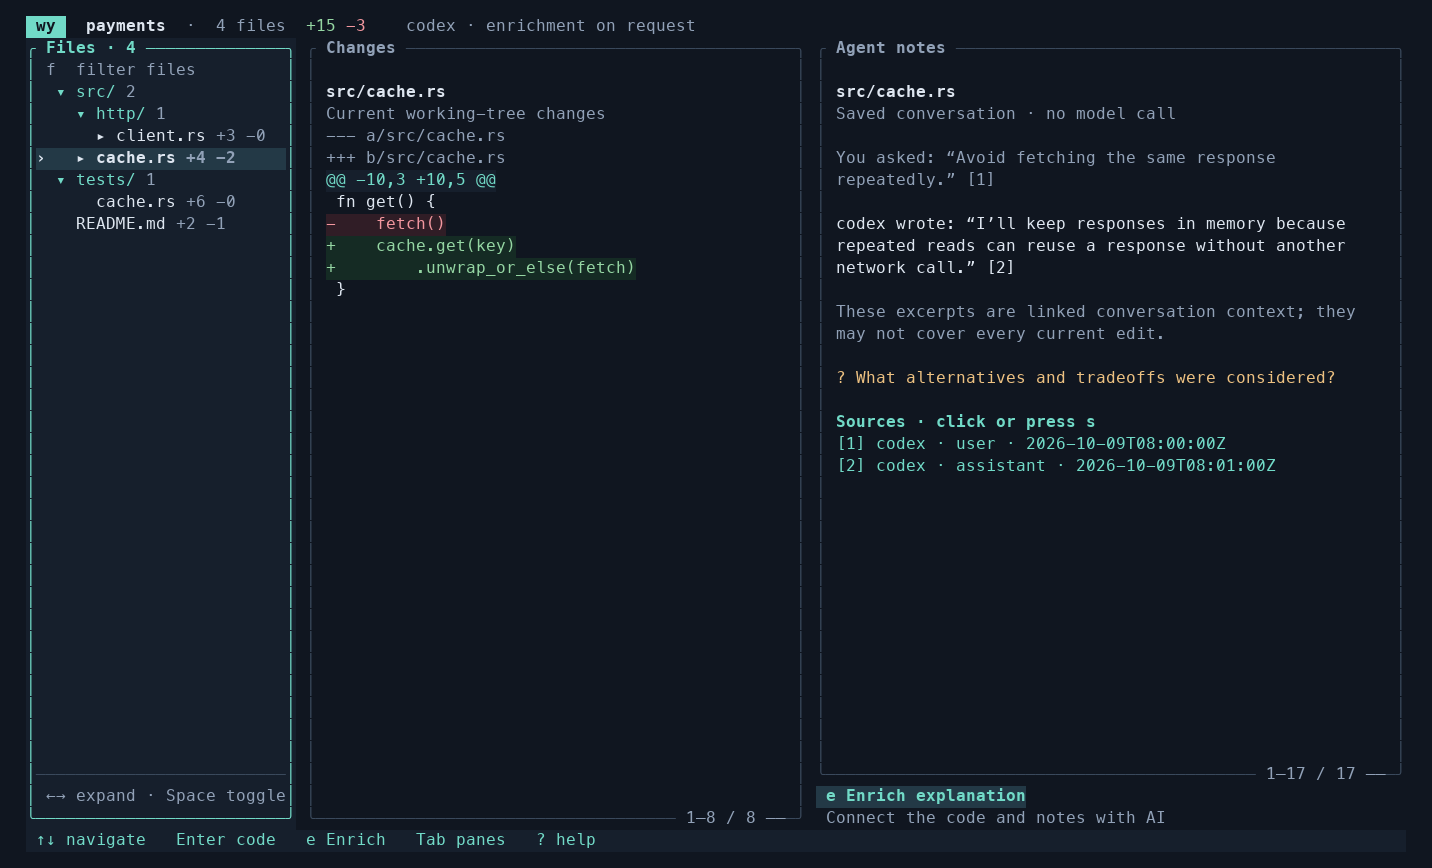
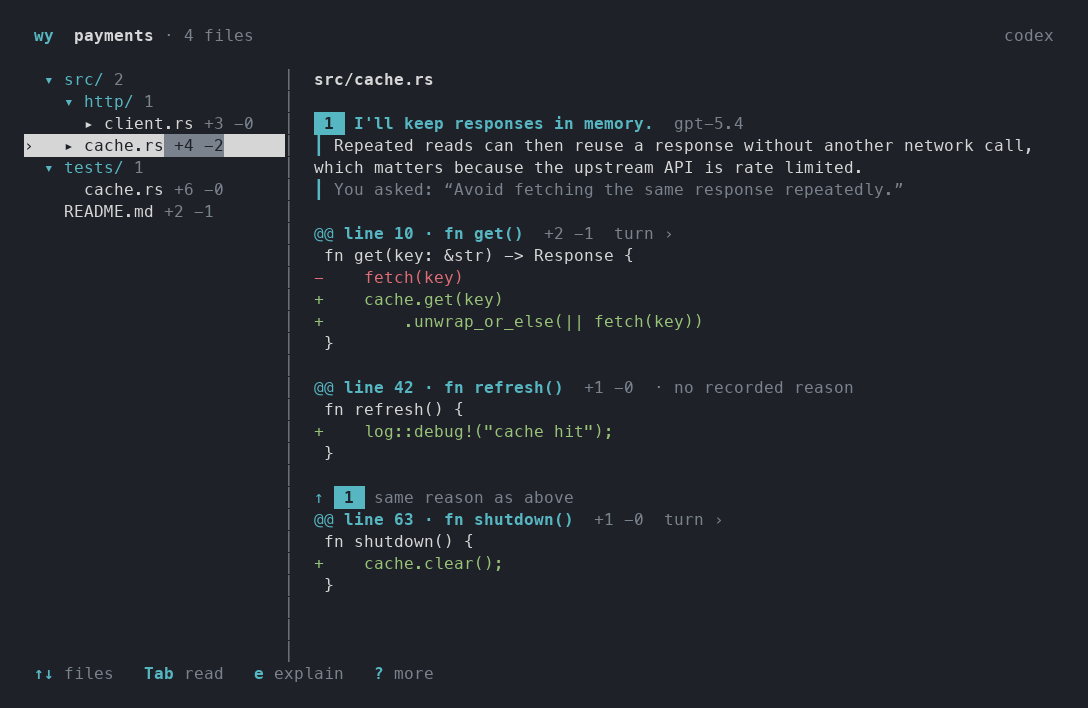
updated

diff --git a/docs/assets/render-preview.py b/docs/assets/render-preview.py
@@ -1,0 +1,55 @@
+#!/usr/bin/env python3
+"""Render a wy terminal preview (WY_TUI_PREVIEW_DIR JSON) to a PNG.
+
+wy uses the terminal's own colours, so this maps the named colours to one
+common dark palette. Usage: render-preview.py preview.json out.png
+"""
+import json
+import sys
+
+from PIL import Image, ImageDraw, ImageFont
+
+PALETTE = {
+    None: (214, 214, 214),  # default text
+    "Cyan": (86, 182, 194),
+    "Green": (152, 195, 121),
+    "Red": (224, 108, 117),
+    "Yellow": (229, 192, 123),
+    "DarkGray": (122, 130, 142),
+}
+BACKGROUND = (30, 33, 39)
+CELL_W, CELL_H, PAD = 10, 22, 24
+
+
+def colour(value):
+    if isinstance(value, list):
+        return tuple(value)
+    return PALETTE.get(value, PALETTE[None])
+
+
+def main(source, target):
+    data = json.load(open(source))
+    width, height, cells = data["width"], data["height"], data["cells"]
+    try:
+        regular = ImageFont.truetype("/System/Library/Fonts/Menlo.ttc", 16, index=0)
+        bold = ImageFont.truetype("/System/Library/Fonts/Menlo.ttc", 16, index=1)
+    except OSError:
+        regular = bold = ImageFont.load_default()
+    image = Image.new("RGB", (width * CELL_W + 2 * PAD, height * CELL_H + 2 * PAD), BACKGROUND)
+    draw = ImageDraw.Draw(image)
+    for index, cell in enumerate(cells):
+        x = PAD + (index % width) * CELL_W
+        y = PAD + (index // width) * CELL_H
+        fg, bg = colour(cell["fg"]), (colour(cell["bg"]) if cell["bg"] is not None else BACKGROUND)
+        if cell.get("reversed"):
+            fg, bg = BACKGROUND, fg
+        if bg != BACKGROUND:
+            draw.rectangle([x, y, x + CELL_W, y + CELL_H], fill=bg)
+        text = cell["text"]
+        if text.strip():
+            draw.text((x, y + 2), text, fill=fg, font=bold if cell.get("bold") else regular)
+    image.save(target)
+
+
+if __name__ == "__main__":
+    main(sys.argv[1], sys.argv[2])

diff --git a/src/tui/tests.rs b/src/tui/tests.rs
@@ -1231,11 +1231,13 @@ fn preview(name: &str, terminal: &Terminal<TestBackend>) {
         return;
     };
     let buffer = terminal.backend().buffer();
+    // Named terminal colours are written as their names; a renderer maps them to a palette.
     let color = |c: Color| match c {
         Color::Rgb(r, g, b) => json!([r, g, b]),
-        _ => Value::Null,
+        Color::Reset => Value::Null,
+        other => json!(format!("{other:?}")),
     };
-    let cells = buffer.content.iter().map(|c| json!({"text":c.symbol(),"fg":color(c.fg),"bg":color(c.bg),"bold":c.modifier.contains(Modifier::BOLD)})).collect::<Vec<_>>();
+    let cells = buffer.content.iter().map(|c| json!({"text":c.symbol(),"fg":color(c.fg),"bg":color(c.bg),"bold":c.modifier.contains(Modifier::BOLD),"reversed":c.modifier.contains(Modifier::REVERSED),"dim":c.modifier.contains(Modifier::DIM)})).collect::<Vec<_>>();
     std::fs::create_dir_all(&path).unwrap();
     std::fs::write(
         Path::new(&path).join(format!("{name}.json")),

diff --git a/README.md b/README.md
@@ -21,30 +21,9 @@ wy puts the agent's own explanation above each change it produced, straight from
 
 Your agent adds a cache. **Why was it needed, and what happens when the cached data changes?** wy shows what the agent said just before it made the edit, next to the edit itself, so you can check the stated reason and investigate the tradeoff.
 
-```
- wy  payments · 4 files                                              codex
+![wy terminal UI: the file tree on the left; on the right, the agent's numbered reason above the diff hunks it produced](docs/assets/terminal-preview.png)
 
-  ▾ src/ 2              │  src/cache.rs
-    ▾ http/ 1           │
-      ▸ client.rs +3    │  █1█ I'll keep responses in memory.  gpt-5.4
-›   ▸ cache.rs +4 −2    │  ┃ Repeated reads can then reuse a response without
-  ▾ tests/ 1            │  ┃ another network call; the upstream API is rate limited.
-      cache.rs +6       │  ┃ You asked: "Avoid fetching the same response repeatedly."
-    README.md +2 −1     │
-                        │  @@ line 10 · fn get()  +2 −1  turn ›
-                        │   fn get() {
-                        │  -    fetch()
-                        │  +    cache.get(key)
-                        │  +        .unwrap_or_else(fetch)
-                        │   }
-                        │
-                        │  @@ line 42 · fn refresh()  +1 −0  · no recorded reason
-                        │  +    log::debug!("hit");
-                        │
- ↑↓ files   Tab read   e explain   ? more
-```
-
-*Sample data. The file tree on the left; one reader on the right with each reason placed above the changes it explains. wy uses your terminal's own colours.*
+*Sample data, rendered from the app. Each numbered reason is what the agent wrote just before the edit, placed above the changes it made.*
 
 ## Get started
 
